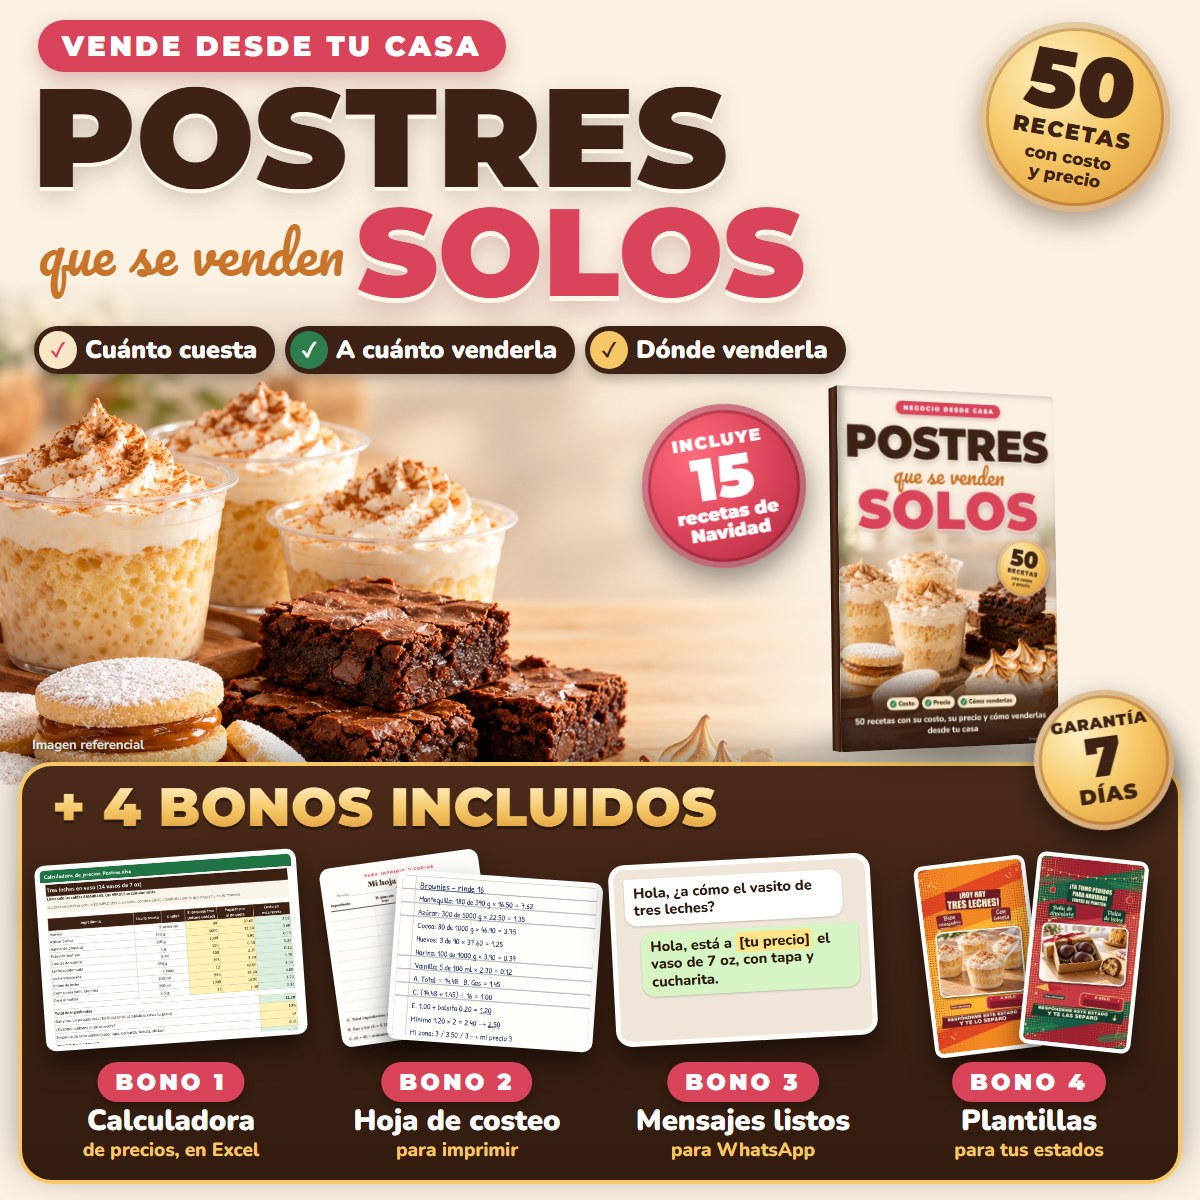
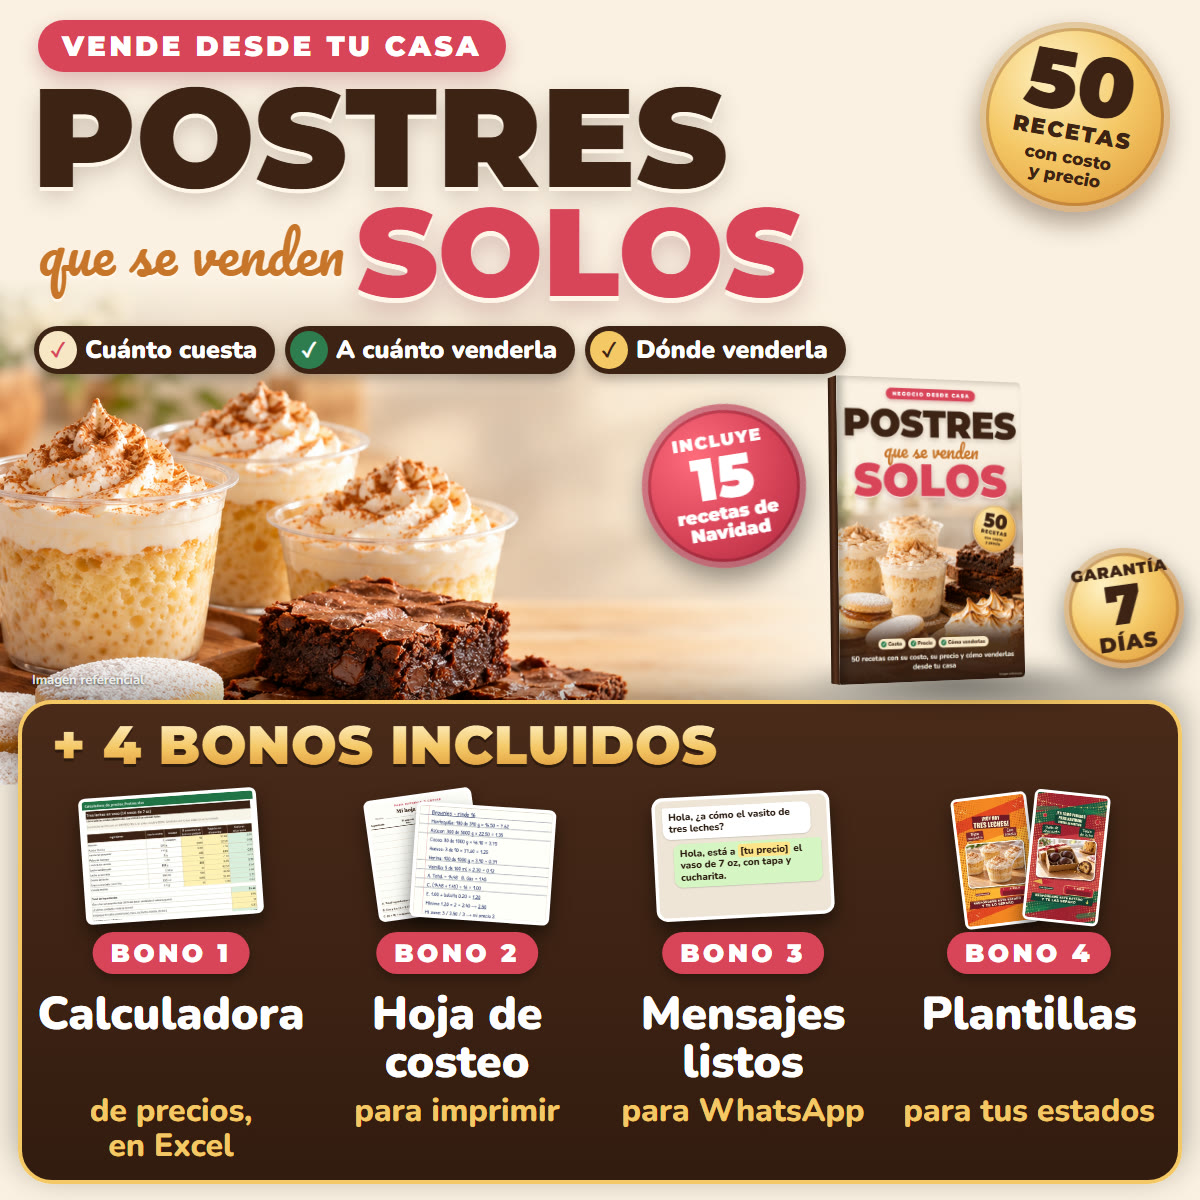
Postres: nuevo inicio con resumen del kit y bonos más legibles

diff --git a/postres/estilos.css b/postres/estilos.css
@@ -273,3 +273,118 @@ details p { margin: 10px 0 0; }
 }
 .cierre-img { max-width: min(420px, 100%); }
 .oferta-img { max-width: min(360px, 100%); }
+
+/* 18/10 noche: hero de Navidad */
+.hero h1 .resalta { color: var(--fresa); }
+
+
+/* Kit de Navidad: composición y resumen del hero, 18/10/2026. */
+.hero {
+  padding: 24px 0 36px;
+  background: radial-gradient(circle at 90% 12%, #f8ce9c80, transparent 42%),
+    radial-gradient(circle at 8% 40%, #fffaf2, transparent 48%), var(--crema);
+}
+.hero-grid {
+  grid-template-columns: minmax(0, 1fr);
+  grid-template-areas: "intro" "kit" "accion" "resumen" "ejemplo";  /* 18/10: en el celular el botón se ve sin bajar */
+  gap: 20px;
+}
+.hero-intro { grid-area: intro; min-width: 0; }
+.hero-pildora {
+  display: inline-block; margin: 0 0 12px; padding: 6px 11px;
+  border: 1px solid #e8bb88; border-radius: 999px; background: #fff8ec;
+  color: var(--choco2); font-size: 13px; font-weight: 800; line-height: 1.3;
+}
+.hero h1 { font-size: clamp(34px, 5vw, 52px); line-height: 1.04; margin: 0 0 12px; }
+.hero .continua { font-family: "Figtree", system-ui, sans-serif; font-size: 18px; line-height: 1.4; font-weight: 500; margin: 0; }
+.kit-hero { grid-area: kit; position: relative; width: min(100%, 420px); height: 350px; margin: 0 auto; isolation: isolate; }
+.kit-hero::before {
+  content: ""; position: absolute; inset: 4% -2% 8%; z-index: -1;
+  border-radius: 50%; background: radial-gradient(ellipse, #efbc7d55, #fff8ea88 60%, transparent 70%);
+}
+.kit-hero::after {
+  content: ""; position: absolute; inset: 4px 0 30px; z-index: -1;
+  background-image: radial-gradient(circle, #c8742a55 1.5px, transparent 2px);
+  background-size: 29px 29px; mask-image: radial-gradient(ellipse, transparent 35%, #000 90%);
+}
+.kit-base { position: absolute; left: 4%; right: 0; bottom: 13px; height: 38px; border-radius: 50%; background: #bb7c3f30; filter: blur(9px); }
+.kit-stage { position: absolute; left: 7%; top: 23px; width: 53%; height: 285px; perspective: 1200px; }
+.kit-book { position: relative; width: 100%; height: 100%; transform-style: preserve-3d; transform: rotateY(-17deg) rotateZ(-5deg); }
+.kit-front { position: absolute; inset: 0; width: 100%; height: 100%; border-radius: 2px 5px 5px 2px; transform: translateZ(10px); box-shadow: -7px 12px 22px #3d221530; }
+.kit-spine { position: absolute; left: -10px; top: 0; width: 20px; height: 100%; transform: rotateY(-90deg); background: linear-gradient(90deg, #2a160c, #68412b, #3d2215); }
+.kit-pages { position: absolute; right: -10px; top: 2px; width: 20px; height: calc(100% - 4px); transform: rotateY(90deg); background: repeating-linear-gradient(90deg, #fff8ee 0 2px, #d3c3af 2px 3px); }
+.kit-phone {
+  position: absolute; width: 36%; height: 240px; right: 2%; top: 90px;
+  padding: 5px; background: #352921; border: 2px solid #755c48; border-radius: 23px;
+  box-shadow: 9px 15px 24px #3d221538, inset 0 0 0 1px #d5c2af; transform: rotate(6deg);
+}
+.kit-phone::after { content: ""; position: absolute; top: 9px; left: 40%; width: 20%; height: 5px; border-radius: 9px; background: #352921; }
+.phone-screen { position: relative; width: 100%; height: 100%; overflow: hidden; border-radius: 16px; background: #b84d1a; }
+.estado { position: absolute; inset: 0; width: 100%; height: 100%; object-fit: cover; opacity: 0; animation: estado-fundido 10s linear infinite; }
+.estado-2 { animation-delay: -7.5s; } .estado-3 { animation-delay: -5s; } .estado-4 { animation-delay: -2.5s; }
+@keyframes estado-fundido { 0%, 21% { opacity: 1; } 25%, 96% { opacity: 0; } 100% { opacity: 1; } }
+.estado-progreso { position: absolute; left: 7px; right: 7px; top: 19px; display: flex; gap: 3px; }
+.estado-progreso i { flex: 1; height: 3px; border-radius: 4px; background: #ffffff65; overflow: hidden; }
+.estado-progreso i::after { content: ""; display: block; height: 100%; background: #fff; transform: scaleX(0); transform-origin: left; animation: estado-barra-1 10s linear infinite; }
+.estado-progreso i:nth-child(2)::after { animation-name: estado-barra-2; }
+.estado-progreso i:nth-child(3)::after { animation-name: estado-barra-3; }
+.estado-progreso i:nth-child(4)::after { animation-name: estado-barra-4; }
+@keyframes estado-barra-1 { 0%, 100% { transform: scaleX(0); } 25%, 99.99% { transform: scaleX(1); } }
+@keyframes estado-barra-2 { 0%, 25%, 100% { transform: scaleX(0); } 50%, 99.99% { transform: scaleX(1); } }
+@keyframes estado-barra-3 { 0%, 50%, 100% { transform: scaleX(0); } 75%, 99.99% { transform: scaleX(1); } }
+@keyframes estado-barra-4 { 0%, 75%, 100% { transform: scaleX(0); } 99.99% { transform: scaleX(1); } }
+.kit-hero .sello { top: 0; bottom: auto; right: 0; width: 109px; height: 109px; padding: 10px; z-index: 2; box-shadow: 0 8px 20px #7a1f2b33, inset 0 0 0 3px #fff5e9, inset 0 0 0 5px #b8233a; }
+.kit-hero .sello-1 { font-size: 9px; }
+.kit-hero .sello-2 { font-size: 19px; margin: 3px 0; }
+.kit-hero .sello-3 { font-size: 9px; }
+.kit-chat, .kit-ganancia { position: absolute; z-index: 3; border-radius: 13px; padding: 11px 13px; box-shadow: 0 8px 24px #3d221526; font-size: 13px; line-height: 1.25; }
+.kit-chat { left: 0; bottom: 9px; width: 52%; background: #d7f5c4; border: 1px solid #b5dfa0; transform: rotate(-3deg); }
+.kit-chat .ph { background: #ffe58a; border-radius: 4px; padding: 0 3px; font-weight: 800; }
+.kit-chat::after { content: ""; position: absolute; right: 18px; bottom: -6px; width: 10px; height: 10px; background: #d7f5c4; transform: rotate(45deg); }
+.kit-ganancia { right: 0; bottom: 0; width: 43%; background: #e2f1e6; color: #245f3d; border: 1px solid #9fc9aa; transform: rotate(3deg); }
+.kit-ganancia b { font-family: "Bricolage Grotesque", sans-serif; font-size: 17px; display: block; margin-top: 2px; }
+.hero-resumen { grid-area: resumen; min-width: 0; }
+.hero-resumen h2 { font-size: 25px; margin-bottom: 12px; }
+.kit-tarjetas { list-style: none; padding: 0; margin: 0; display: grid; grid-template-columns: repeat(2, minmax(0, 1fr)); gap: 9px; }
+.kit-tarjetas li { min-width: 0; padding: 12px; background: #fffdfb; border: 1px solid #f2d4b4; border-radius: 15px; box-shadow: 0 4px 10px #9f622207; }
+.kit-icono { display: block; font-size: 27px; line-height: 1; margin-bottom: 8px; }
+.kit-tarjetas b { display: block; font-size: 16px; line-height: 1.15; color: var(--choco); }
+.kit-tarjetas div > span { display: block; font-size: 14px; line-height: 1.3; color: var(--suave); margin-top: 5px; }
+.hero-accion { grid-area: accion; }
+.hero-accion .btn { width: 100%; padding: 16px 14px; }
+.hero-accion .nota { line-height: 1.4; margin-bottom: 0; text-align: center; }
+.hero .ejemplo-hero { grid-area: ejemplo; margin-top: 0; padding-top: 20px; }
+@media (min-width: 600px) and (max-width: 999px) {
+  .hero-intro, .hero-resumen, .hero-accion { width: min(100%, 620px); margin-inline: auto; }
+  .kit-hero { height: 370px; }
+  .kit-stage { height: 310px; }
+  .kit-phone { height: 280px; }
+}
+@media (min-width: 1000px) {
+  .hero { padding: 32px 0 36px; }
+  .hero-grid { grid-template-columns: minmax(0, 1.35fr) minmax(0, 1fr); grid-template-areas: "intro kit" "resumen kit" "accion kit" "ejemplo ejemplo"; column-gap: 32px; row-gap: 20px; }
+  .hero .continua { font-size: 19px; }
+  .hero-resumen h2 { font-size: 24px; }
+  .kit-tarjetas { grid-template-columns: repeat(3, minmax(0, 1fr)); gap: 9px; }
+  .kit-tarjetas li { padding: 11px; }
+  .kit-tarjetas b { font-size: 15px; }
+  .kit-tarjetas div > span { font-size: 13px; }
+  .kit-icono { font-size: 25px; margin-bottom: 7px; }
+  .hero-accion .btn { width: auto; min-width: 330px; }
+  .hero-accion .nota { text-align: left; font-size: 13px; }
+  .kit-hero { height: 510px; width: 100%; align-self: center; }
+  .kit-stage { left: 4%; top: 56px; width: 57%; height: 374px; }
+  .kit-phone { right: 0; top: 155px; width: 38%; height: 316px; border-radius: 27px; }
+  .kit-hero .sello { width: 138px; height: 138px; top: 9px; right: 0; padding: 14px; }
+  .kit-hero .sello-1 { font-size: 11px; } .kit-hero .sello-2 { font-size: 24px; } .kit-hero .sello-3 { font-size: 11px; }
+  .kit-chat { bottom: 9px; font-size: 15px; }
+  .kit-ganancia { bottom: 0; font-size: 14px; }
+  .kit-ganancia b { font-size: 19px; }
+}
+@media (prefers-reduced-motion: reduce) {
+  .hero .estado, .hero .estado-progreso i::after { animation: none; }
+  .hero .estado { opacity: 0; }
+  .hero .estado-1 { opacity: 1; }
+  .hero .estado-progreso i::after { transform: scaleX(0); }
+  .hero .estado-progreso i:first-child::after { transform: scaleX(1); }
+}

diff --git a/postres/index.html b/postres/index.html
@@ -14,7 +14,7 @@
   <meta property="og:type" content="website">
   <meta property="og:locale" content="es_LA">
   <meta property="og:title" content="Postres que se Venden Solos">
-  <meta property="og:description" content="Deja de regalar tus postres. 50 recetas paso a paso, cada una con lo que cuesta y a cuánto venderla. Incluye 15 para vender esta Navidad.">
+  <meta property="og:description" content="Vende tus postres de Navidad antes de prepararlos. Calendario de pedidos, 50 recetas paso a paso con su precio, mensajes y plantillas para tus estados.">
   <meta property="og:image" content="https://biblioteca-practica.github.io/postres/assets/producto-redes.jpg">
   <meta property="og:url" content="https://biblioteca-practica.github.io/postres/">
   <link rel="canonical" href="https://biblioteca-practica.github.io/postres/">
@@ -22,7 +22,7 @@
   <link rel="preconnect" href="https://fonts.googleapis.com">
   <link rel="preconnect" href="https://fonts.gstatic.com" crossorigin>
   <link href="https://fonts.googleapis.com/css2?family=Bricolage+Grotesque:opsz,wght@12..96,600;12..96,800&family=Figtree:wght@400;500;700;800&family=Pacifico&display=swap" rel="stylesheet">
-  <link rel="preload" as="image" href="assets/fotos/tres-leches-vaso.webp">
+  <link rel="preload" as="image" href="assets/portada.webp">
   <link rel="stylesheet" href="estilos.css">
   <!-- META PIXEL: pegar aquí el código del píxel de Meta -->
 </head>
@@ -49,12 +49,46 @@
 
 <main id="inicio">
   <section class="hero"><div class="contenedor hero-grid">
-    <div class="hero-texto">
-      <h1>Deja de regalar tus postres.</h1>
-      <p class="continua">Y empieza a venderlos desde tu cocina con esta guía: 50 recetas paso a paso, cada una con lo que cuesta y a cuánto venderla.</p>
-      <ul class="chips chips-hero"><li>+480 páginas con fotos</li><li>Calculadora de precios incluida</li></ul>
+    <div class="hero-intro">
+      <p class="hero-pildora">Recetario + kit para vender esta Navidad</p>
+      <h1>Vende tus postres de Navidad <span class="resalta">antes de prepararlos.</span></h1>
+      <p class="continua">Tomas los pedidos en noviembre, con adelanto, y en diciembre solo cocinas y entregas.</p>
+    </div>
+    <div class="kit-hero" aria-label="Libro y plantillas para estados">
+      <div class="kit-base" aria-hidden="true"></div>
+      <div class="kit-stage"><div class="kit-book">
+        <div class="kit-spine" aria-hidden="true"></div>
+        <div class="kit-pages" aria-hidden="true"></div>
+        <img class="kit-front" src="assets/portada.webp" alt="Portada de Postres que se Venden Solos" width="467" height="700" loading="eager" fetchpriority="high">
+      </div></div>
+      <div class="kit-phone">
+        <div class="phone-screen">
+          <img class="estado estado-1" src="assets/estados/01-tres-leches-vaso.webp" alt="Plantilla de estado de tres leches en vaso" width="360" height="640" loading="eager">
+          <img class="estado estado-2" src="assets/estados/24-brigadeiros.webp" alt="Plantilla de estado de brigadeiros" width="360" height="640" loading="eager">
+          <img class="estado estado-3" src="assets/estados/46-trufas-paneton.webp" alt="Plantilla de estado de trufas de panetón" width="360" height="640" loading="eager">
+          <img class="estado estado-4" src="assets/estados/03-cheesecake-fresa-vaso.webp" alt="Plantilla de estado de cheesecake de fresa" width="360" height="640" loading="eager">
+          <div class="estado-progreso" aria-hidden="true"><i></i><i></i><i></i><i></i></div>
+        </div>
+      </div>
+      <a class="sello" href="#navidad"><span class="sello-1">Incluye</span><span class="sello-2">15 recetas</span><span class="sello-3">para vender esta Navidad</span></a>
+      <div class="kit-chat">Hola, está a <span class="ph">[tu precio]</span> el vaso, con tapa y cucharita.</div>
+      <div class="kit-ganancia">Cada receta trae su cuenta<b>Cuesta S/ 1.97</b><b>Se vende a S/ 5</b></div>
+    </div>
+    <div class="hero-resumen">
+      <h2>Todo lo que recibes</h2>
+      <ul class="kit-tarjetas">
+        <li><span class="kit-icono" aria-hidden="true">📖</span><div><b>50 recetas paso a paso</b><span>con fotos de los pasos difíciles</span></div></li>
+        <li><span class="kit-icono" aria-hidden="true">🧮</span><div><b>El precio de cada una</b><span>costo, precio mínimo y lo que te queda</span></div></li>
+        <li><span class="kit-icono" aria-hidden="true">📅</span><div><b>Calendario de Navidad</b><span>qué hacer cada semana</span></div></li>
+        <li><span class="kit-icono" aria-hidden="true">💬</span><div><b>Mensajes listos</b><span>para responder el "¿a cómo?"</span></div></li>
+        <li><span class="kit-icono" aria-hidden="true">📱</span><div><b>Plantillas para tus estados</b><span>una por receta</span></div></li>
+        <li><span class="kit-icono" aria-hidden="true">🎄</span><div><b>Especial Navidad</b><span>15 recetas para cajitas y regalos</span></div></li>
+      </ul>
+    </div>
+    <div class="hero-accion">
       <a class="btn btn-comprar" href="#comprar">Quiero el libro · <span class="precio"></span></a>
-      <p class="nota">Pago seguro con Hotmart · Garantía de 7 días</p>
+      <p class="nota">Pago único · Lo recibes al instante en tu correo · Garantía de 7 días</p>
+    </div>
       <div class="ejemplo-hero">
         <p class="ejemplo-tit">Así viene cada receta · ejemplo: tres leches en vaso</p>
         <div class="numeros">
@@ -64,18 +98,6 @@
         </div>
         <p class="nota">Precios de mayorista de Perú (octubre 2026), si vendes los 14 vasos. Tus números dependen de tu zona.</p>
       </div>
-    </div>
-    <div class="hero-fotos">
-      <figure class="foto-principal">
-        <img src="assets/fotos/tres-leches-vaso.webp" alt="Vasos de tres leches con canela, tapados y listos para vender" width="1200" height="800">
-        <a class="sello" href="#navidad"><span class="sello-1">Incluye</span><span class="sello-2">15 recetas</span><span class="sello-3">para vender esta Navidad</span></a>
-      </figure>
-      <div class="fotos-chicas">
-        <img src="assets/fotos/flan-vainilla.webp" alt="Flan de vainilla con caramelo" width="900" height="600">
-        <img src="assets/fotos/pie-de-limon.webp" alt="Porción de pie de limón con merengue" width="900" height="600">
-      </div>
-      <p class="referencial">Fotos referenciales</p>
-    </div>
   </div></section>
 
   <section class="seccion crema"><div class="contenedor angosto">
